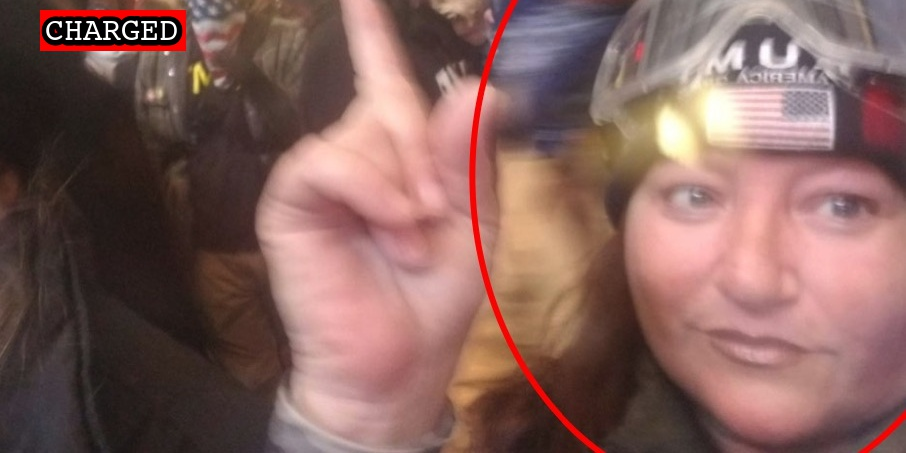
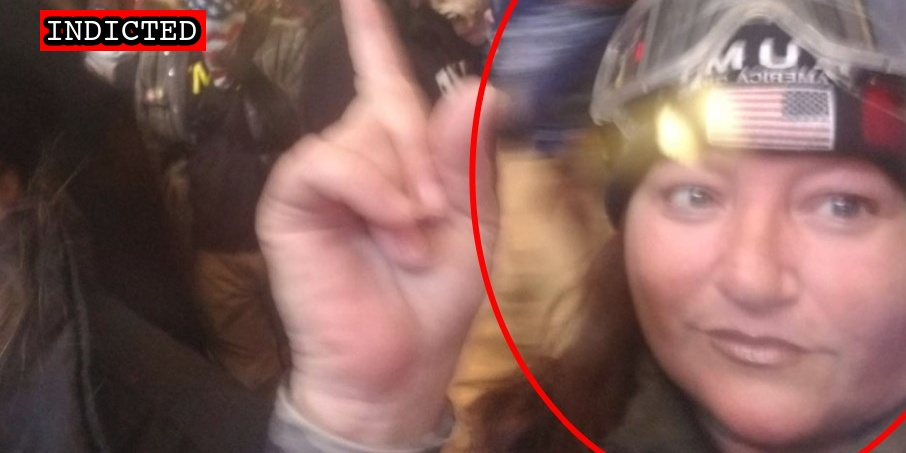
Latest import

Changed region(s): [[0.0309, 0.0, 0.2472, 0.1236]]

diff --git a/docs/_suspects/loammi-yazdani-isfehani.md b/docs/_suspects/loammi-yazdani-isfehani.md
@@ -40,16 +40,15 @@ caseName: USA v. YAZDANI-ISFEHANI
 judge: Christopher R. Cooper
 videos:
 charges:
-  - code: 40 USC § 5104(e)(2)(G)
-    title: Parading, demonstrating or picketing in a Capitol building
-    url: https://www.law.cornell.edu/uscode/text/40/5104
-    felony: false
+- code: 40 USC § 5104(e)(2)(G)
+  title: Parading, demonstrating or picketing in a Capitol building
+  url: https://www.law.cornell.edu/uscode/text/40/5104
+  felony: false
 sentence:
   - 2 years probation
   - 100 hours community service
   - $500 restitution
 ---
-
 - [News Report](https://sports.yahoo.com/two-athens-county-sisters-join-205327176.html)
 - [Complaint](https://www.justice.gov/usao-dc/case-multi-defendant/file/1477206/download)
 - [Statement of Facts](https://www.justice.gov/usao-dc/case-multi-defendant/file/1477211/download)

diff --git a/docs/_suspects/leslie-gray.md b/docs/_suspects/leslie-gray.md
@@ -4,10 +4,10 @@ lastName: Gray
 hashtag:
 aka:
 residence: Florida
-status: Charged
+status: Indicted
 date: 2022-06-06
 charged: 2022-06-06
-indicted:
+indicted: 2022-10-12
 convicted:
 acquitted:
 sentenced:
@@ -42,6 +42,8 @@ videos:
 charges:
 sentence:
 ---
+
 - [News Report](https://www.fox35orlando.com/news/3-more-arrested-in-central-florida-connected-to-capitol-riot-officials-say)
 - [Complaint](https://www.justice.gov/usao-dc/case-multi-defendant/file/1513211/download)
-- [Statement of Facts](https://www.justice.gov/usao-dc/case-multi-defendant/file/1513216/download)
+- [Statement of Facts](https://www.justice.gov/usao-dc/case-multi-defendant/file/1513216/download)\
+- [Indictment](https://extremism.gwu.edu/sites/g/files/zaxdzs2191/f/Leslie%20Gray%20and%20Traci%20Isaacs%20Indictment.pdf)

diff --git a/docs/_suspects/traci-isaacs.md b/docs/_suspects/traci-isaacs.md
@@ -4,10 +4,10 @@ lastName: Isaacs
 hashtag:
 aka:
 residence: Florida
-status: Charged
+status: Indicted
 date: 2022-06-06
 charged: 2022-06-06
-indicted:
+indicted: 2022-10-12
 convicted:
 acquitted:
 sentenced:
@@ -45,3 +45,4 @@ sentence:
 - [News Report](https://www.fox35orlando.com/news/3-more-arrested-in-central-florida-connected-to-capitol-riot-officials-say)
 - [Complaint](https://www.justice.gov/usao-dc/case-multi-defendant/file/1513231/download)
 - [Statement of Facts](https://www.justice.gov/usao-dc/case-multi-defendant/file/1513236/download)
+- [Indictment](https://extremism.gwu.edu/sites/g/files/zaxdzs2191/f/Leslie%20Gray%20and%20Traci%20Isaacs%20Indictment.pdf)

diff --git a/docs/_suspects/luis-hallon.md b/docs/_suspects/luis-hallon.md
@@ -45,3 +45,4 @@ sentence:
 - [News Report](https://www.fox35orlando.com/news/3-more-arrested-in-central-florida-connected-to-capitol-riot-officials-say)
 - [Complaint](https://www.justice.gov/usao-dc/case-multi-defendant/file/1513221/download)
 - [Statement of Facts](https://www.justice.gov/usao-dc/case-multi-defendant/file/1513226/download)
+- [Information](https://extremism.gwu.edu/sites/g/files/zaxdzs2191/f/Luis%20Hallon%20Information.pdf)
